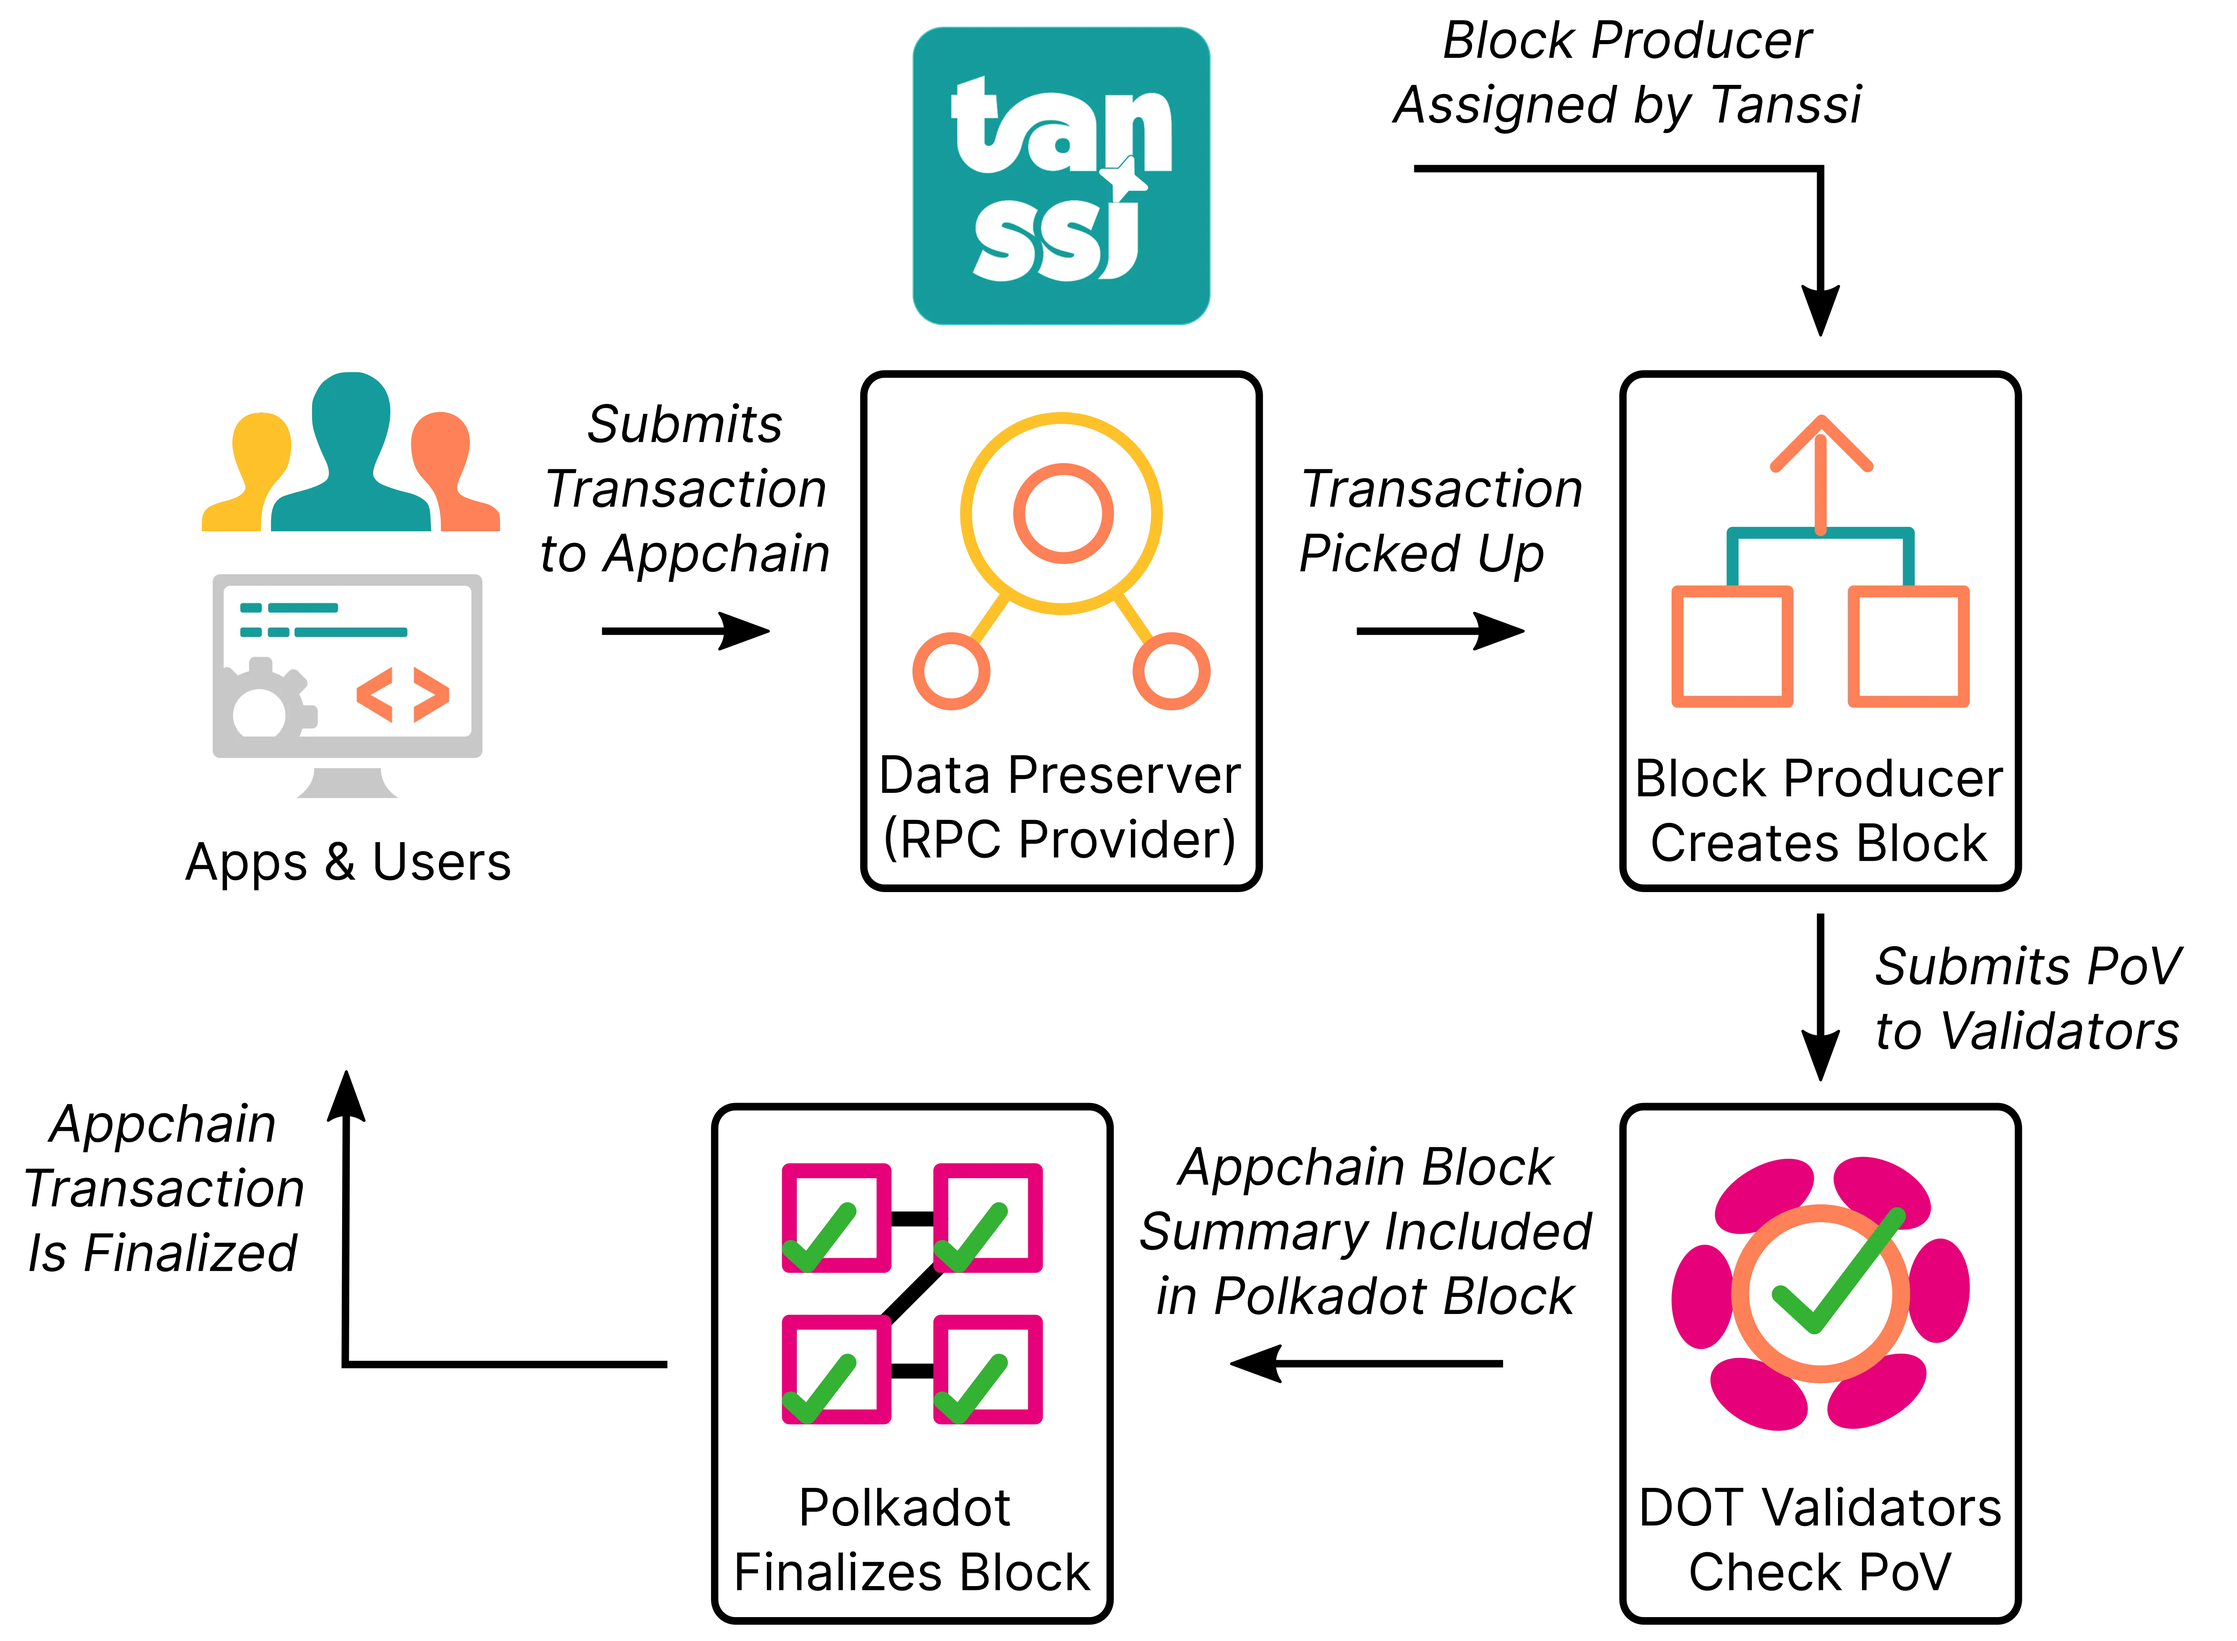
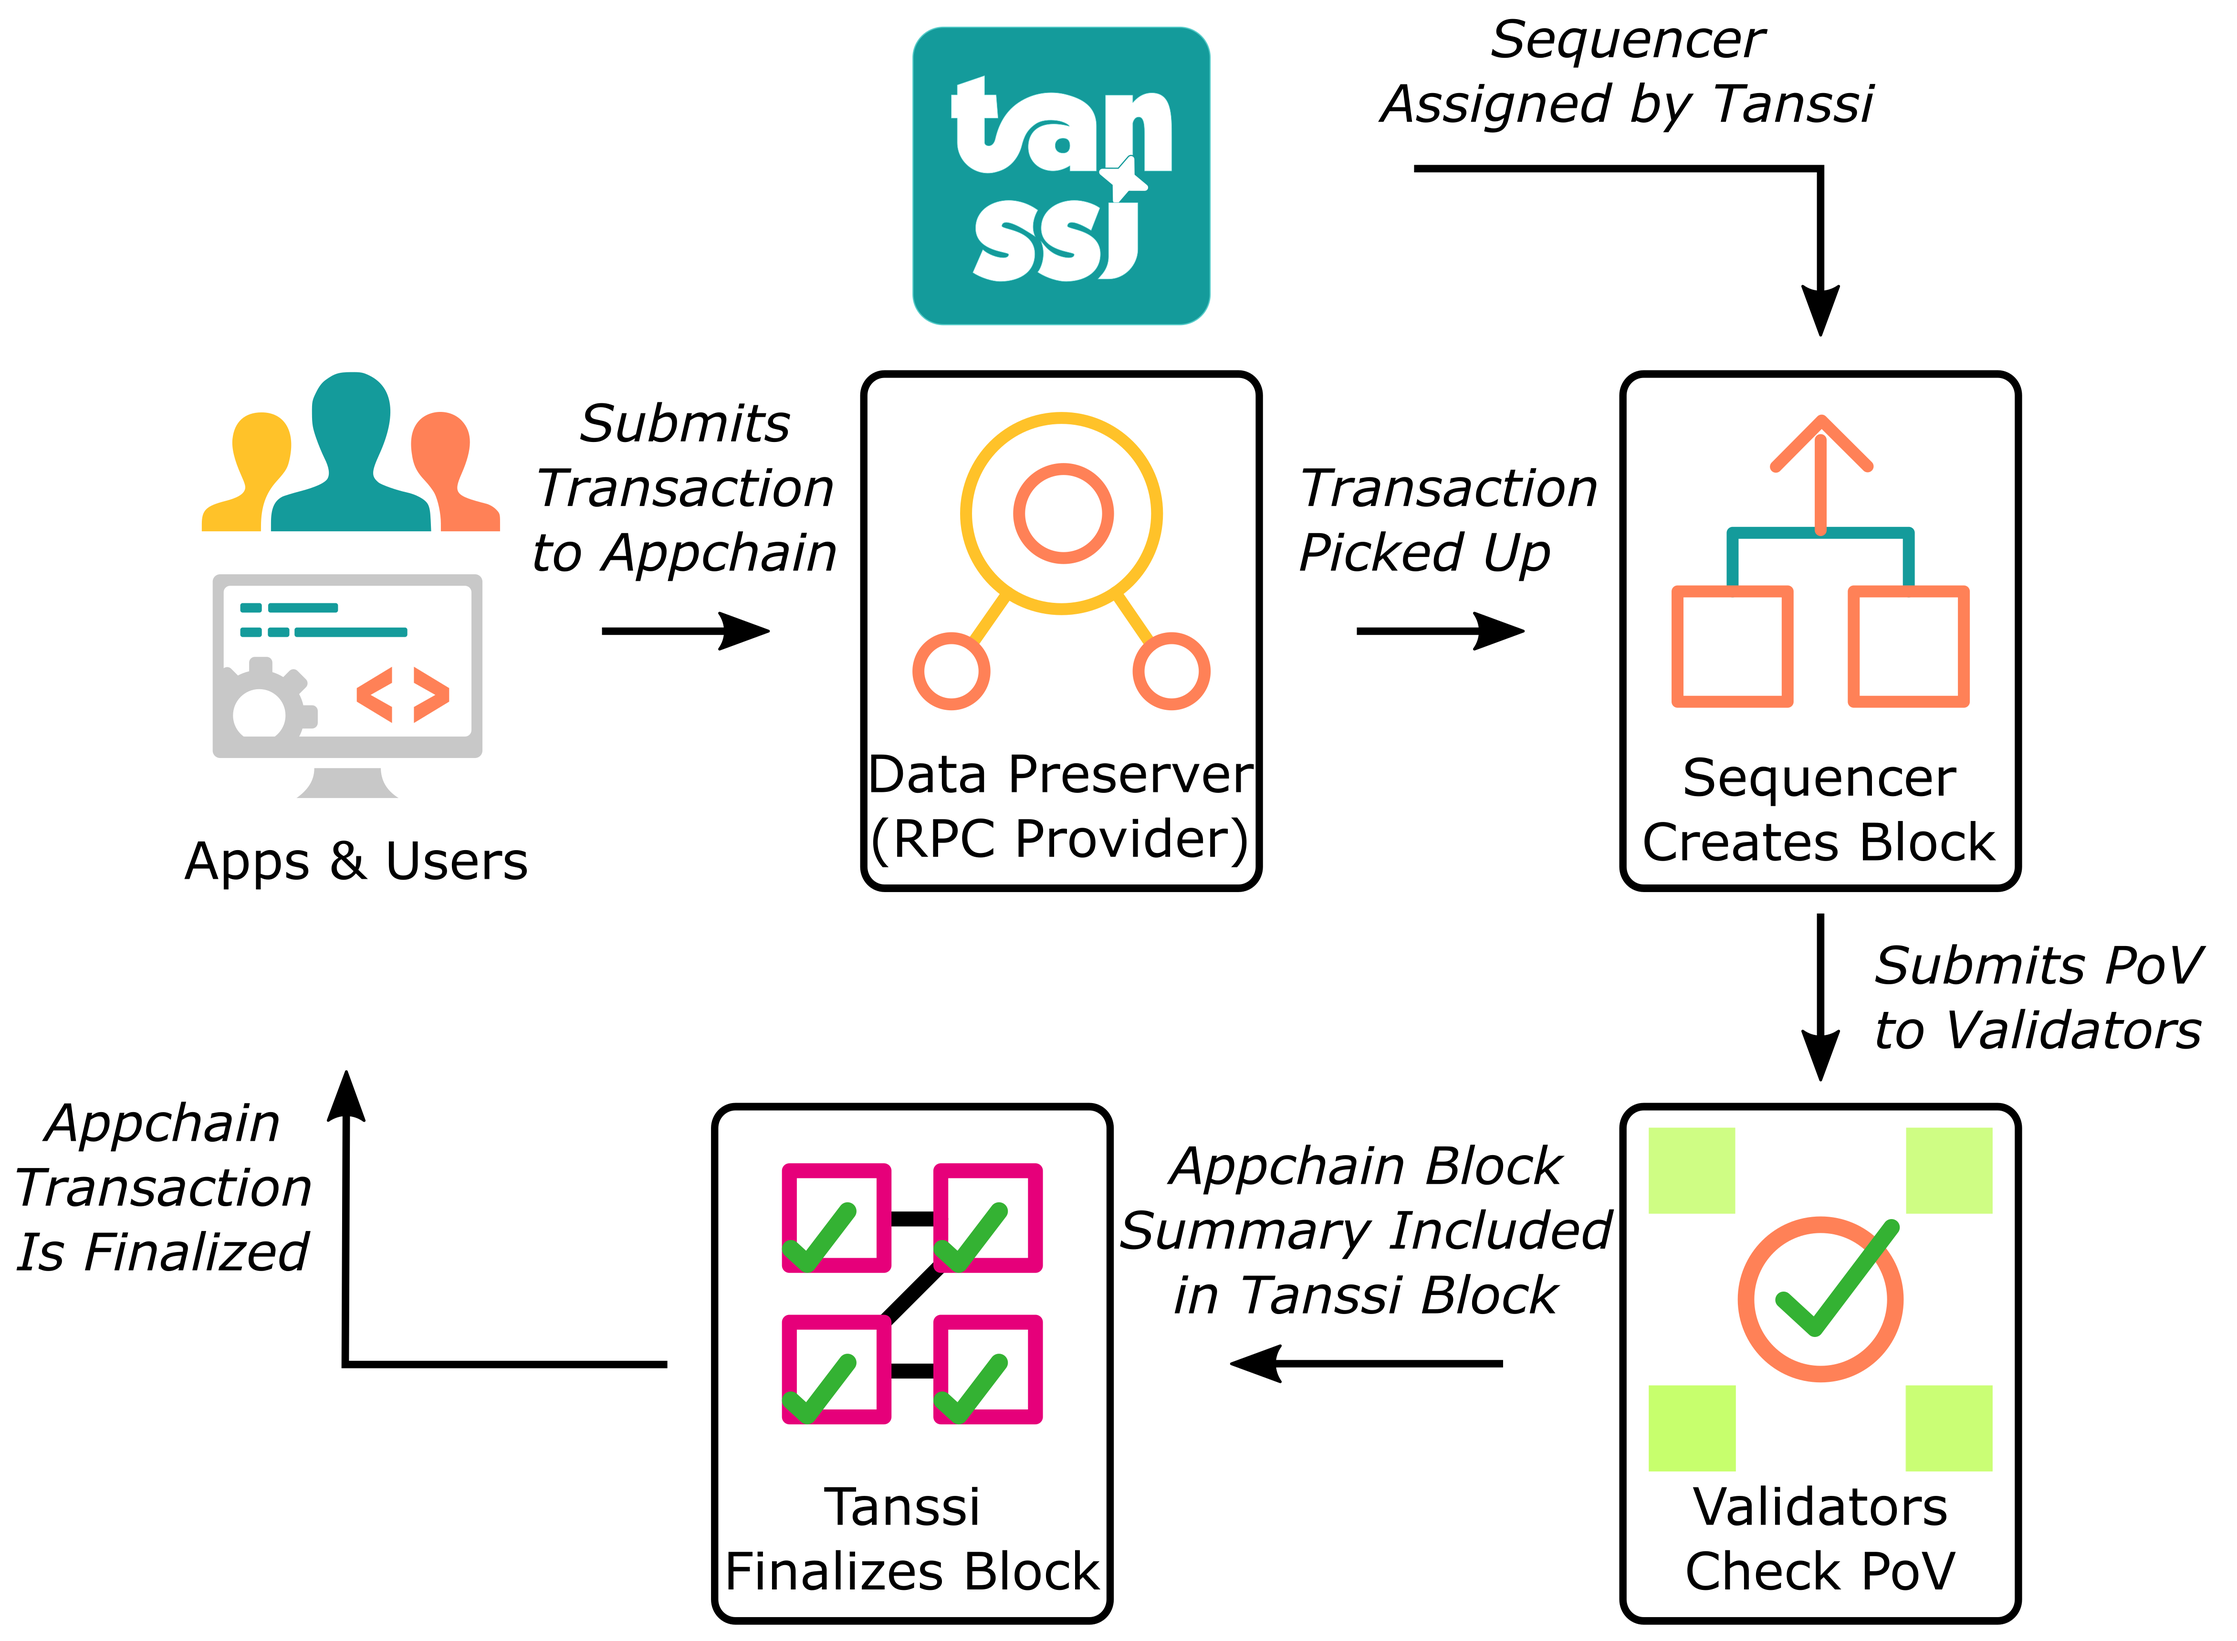
Diagram 2 updated

diff --git a/learn/appchains/overview.md b/learn/appchains/overview.md
@@ -7,7 +7,7 @@ description: Learn the high-level definitions of how a Tanssi appchain works, it
 
 ## Introduction {: #introduction }
 
-Appchains deployed through Tanssi receive many [benefits](/learn/tanssi/overview/#what-tanssi-provides){target=\_blank}, like block production as a service, data retrievability as a service, and security through external security providers such as [Symbiotic](https://symbiotic.fi/){target=\_blank} on Ethereum.
+Appchains deployed through Tanssi receive many [benefits](/learn/tanssi/overview/#what-tanssi-provides){target=\_blank}, like block production as a service, data retrievability as a service, and security through [external security providers](/learn/tanssi/external-security-providers/){target=\_blank} such as [Symbiotic](https://symbiotic.fi/){target=\_blank} on Ethereum.
 
 Also, because Tanssi appchains are based on a [modular tech stack](/learn/framework/){target=\_blank}, they profit from unique advantages when customizations are required at a runtime level. This [modularity](/learn/framework/modules/){target=\_blank} allows developers to add functionality directly into the runtime or extend the capabilities of the EVM itself via precompiled contracts.
 
@@ -28,7 +28,7 @@ Tanssi appchains also benefit from a set of Data-Preservers, with full archive n
 
 ## Appchain Transaction Flow {: #appchain-transaction}
 
-A transaction submitted to a Tanssi appchain follows a complex yet seamless path from submission to block inclusion and finalization. The appchain infrastructure, Tanssi, and the [security provider](/){target=\_blank} all work together at different levels to ensure that the process happens as quickly as possible, which normally takes around 30 seconds. Remember that a transaction in a Tanssi appchain reaches deterministic finality. Consequently, once the transaction is final, it becomes irreversible and unchangeable, and the state transition that resulted when executing that transaction is final.
+A transaction submitted to a Tanssi appchain follows a complex yet seamless path from submission to block inclusion and finalization. The appchain infrastructure, Tanssi, and the chosen [security provider](/learn/tanssi/external-security-providers/){target=\_blank} all work together at different levels to ensure that the process happens as quickly as possible, which normally takes around 30 seconds. Remember that a transaction in a Tanssi appchain reaches deterministic finality. Consequently, once the transaction is final, it becomes irreversible and unchangeable, and the state transition that resulted when executing that transaction is final.
 
 For example, a user initiates a transaction when interacting via an application deployed to a Tanssi appchain. The RPC provider will share the transaction, which sits in the chain's transaction pool, with all network participants. A sequencer assigned by Tanssi to that appchain will eventually pick up the transaction and include it in the next appchain block.
 
